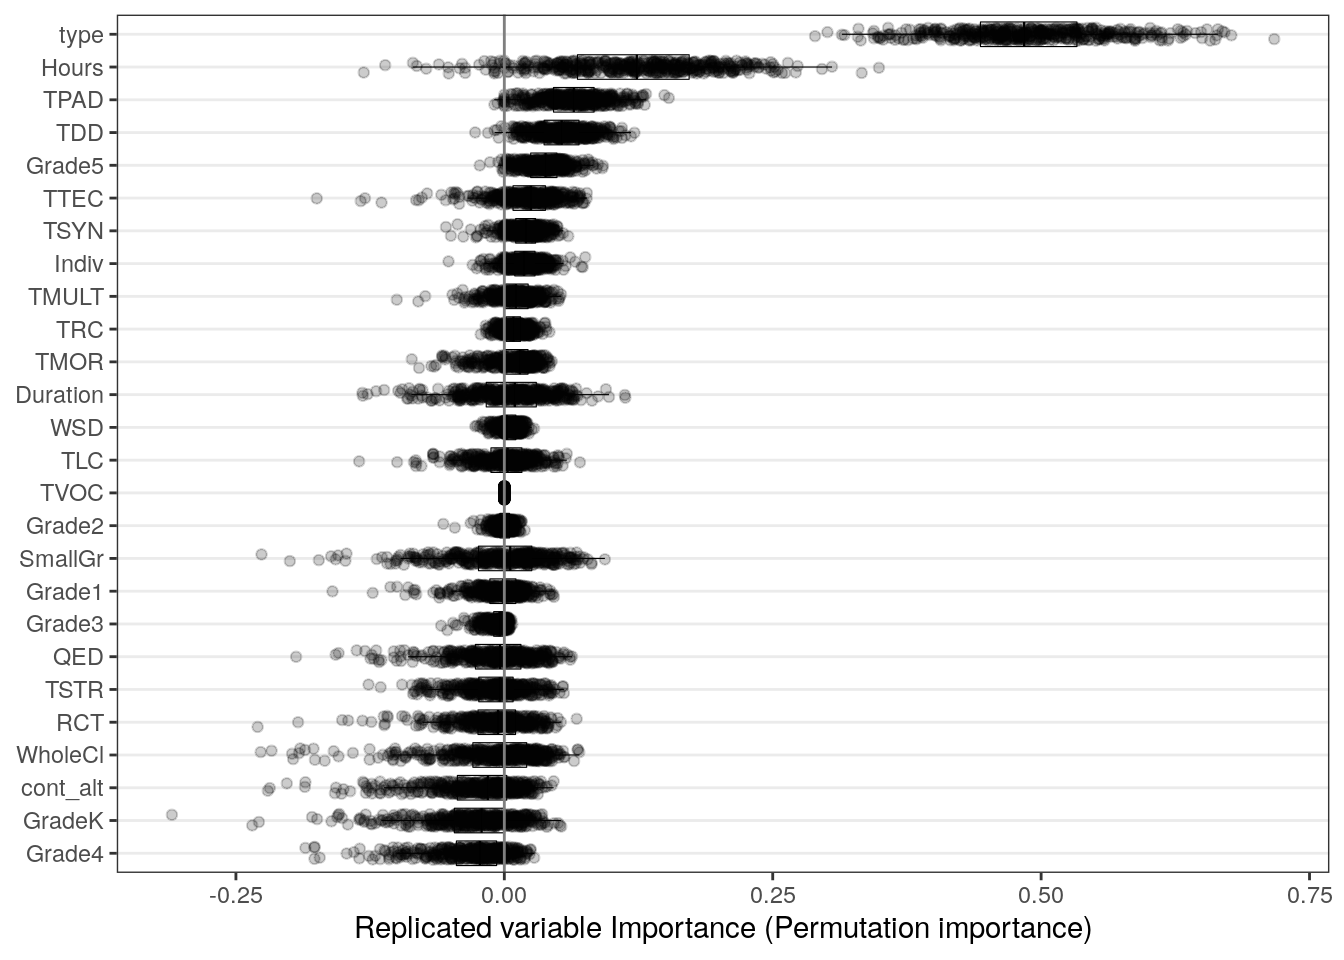
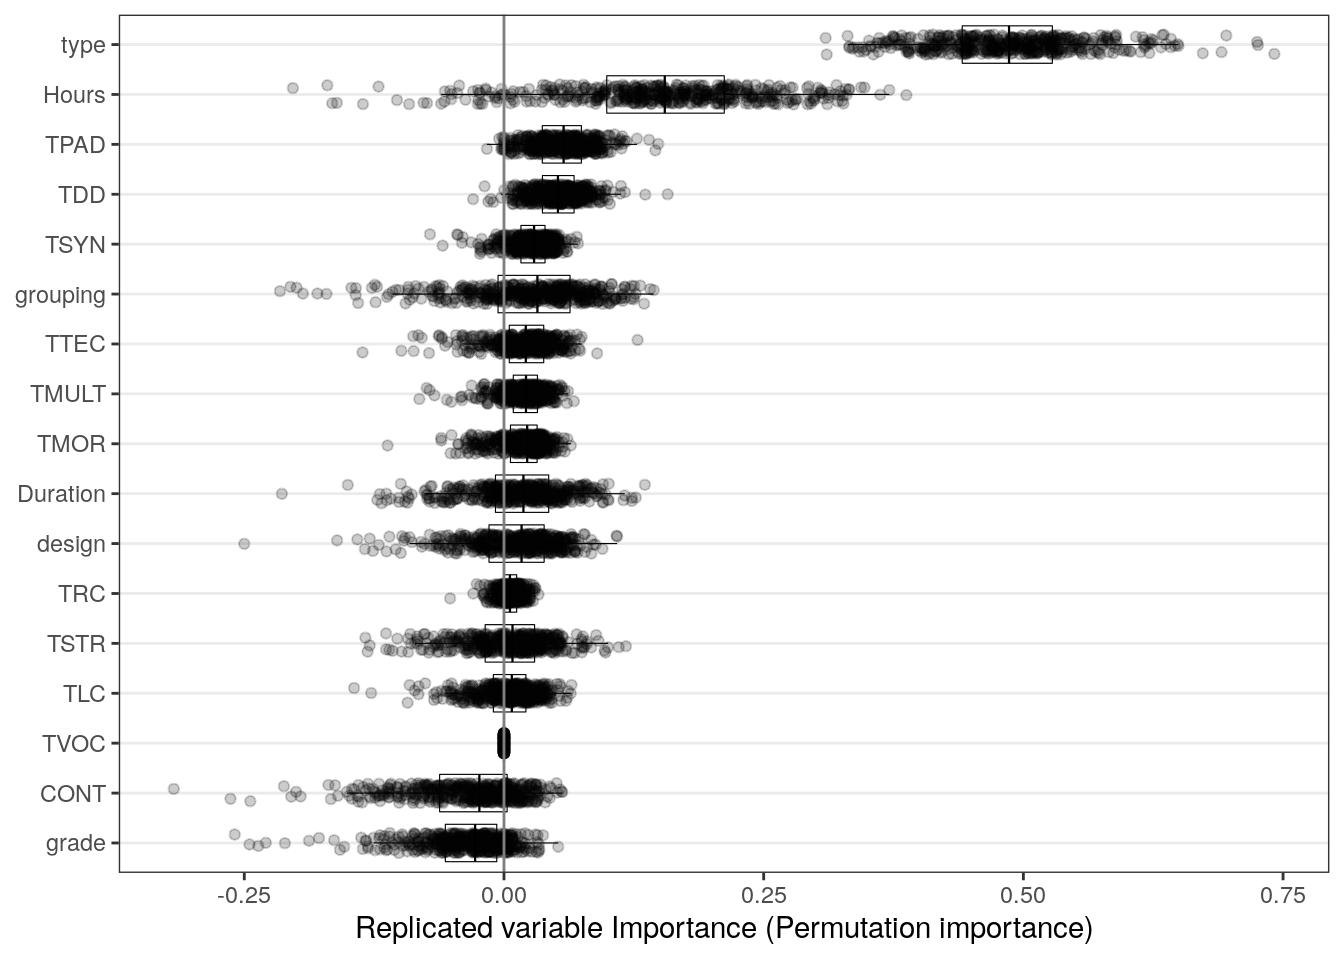
changes

diff --git a/analysis.md b/analysis.md
@@ -17,6 +17,10 @@ Saurabh Khanna
       - [Morphology](#morphology)
       - [Syntax](#syntax)
       - [Academic Learning](#academic-learning)
+  - [MetaForest plots](#metaforest-plots)
+      - [Vocabulary](#vocabulary-1)
+      - [Listening Comprehension](#listening-comprehension-1)
+      - [Reading Comprehension](#reading-comprehension-1)
   - [Moderator effects](#moderator-effects)
       - [Vocabulary (Taken together)](#vocabulary-taken-together)
       - [Vocabulary (VR only)](#vocabulary-vr-only)
@@ -39,14 +43,14 @@ Saurabh Khanna
 library(tidyverse)
 ```
 
-    ## ── Attaching packages ─────────────────────────────────────── tidyverse 1.3.0 ──
+    ## ── Attaching packages ─────────────────────────────────────────────────────────────────────────────────────────────────────── tidyverse 1.3.0 ──
 
     ## ✓ ggplot2 3.3.0     ✓ purrr   0.3.4
     ## ✓ tibble  3.0.0     ✓ dplyr   0.8.5
     ## ✓ tidyr   1.0.2     ✓ stringr 1.4.0
     ## ✓ readr   1.3.1     ✓ forcats 0.5.0
 
-    ## ── Conflicts ────────────────────────────────────────── tidyverse_conflicts() ──
+    ## ── Conflicts ────────────────────────────────────────────────────────────────────────────────────────────────────────── tidyverse_conflicts() ──
     ## x dplyr::filter() masks stats::filter()
     ## x dplyr::lag()    masks stats::lag()
 
@@ -68,10 +72,26 @@ library(metafor)
     ## and introduction to the package please type: help(metafor).
 
 ``` r
-#library(robumeta)
 library(MAd)
-#library(metaforest)
+library(metaforest)
+```
 
+    ## Loading required package: ranger
+
+    ## Loading required package: data.table
+
+    ## 
+    ## Attaching package: 'data.table'
+
+    ## The following objects are masked from 'package:dplyr':
+    ## 
+    ##     between, first, last
+
+    ## The following object is masked from 'package:purrr':
+    ## 
+    ##     transpose
+
+``` r
 # Parameters
 data_file <- here::here("data/L&L Data Set Means SDs.xlsx")
 ```
@@ -1204,6 +1224,61 @@ df_a %>%
 ```
 
 <img src="analysis_files/figure-gfm/unnamed-chunk-16-1.png" width="672" />
+
+## MetaForest plots
+
+### Vocabulary
+
+``` r
+df_v %>%
+  rename(vi = EV) %>%
+  mutate(stdid = stdid %>% as_factor()) %>% 
+  drop_na(Hours) %>% 
+  MetaForest(
+    formula = ES ~ .,
+    data = .,
+    study = "stdid"
+  ) %>%
+  preselect(replications = 500L) %>% 
+  plot()
+```
+
+<img src="analysis_files/figure-gfm/unnamed-chunk-17-1.png" width="672" />
+
+### Listening Comprehension
+
+``` r
+df_l %>%
+  rename(vi = EV) %>%
+  mutate(stdid = stdid %>% as_factor()) %>% 
+  MetaForest(
+    formula = ES ~ .,
+    data = .,
+    study = "stdid"
+  ) %>%
+  preselect(replications = 500L) %>% 
+  plot()
+```
+
+<img src="analysis_files/figure-gfm/unnamed-chunk-18-1.png" width="672" />
+
+### Reading Comprehension
+
+``` r
+df_r %>%
+  rename(vi = EV) %>%
+  mutate(stdid = stdid %>% as_factor()) %>% 
+  drop_na(Hours) %>% 
+  MetaForest(
+    formula = ES ~ .,
+    data = .,
+    study = "stdid"
+  ) %>%
+  preselect(replications = 500L) %>% 
+  plot()
+```
+
+<img src="analysis_files/figure-gfm/unnamed-chunk-19-1.png" width="672" />
 
 ## Moderator effects
 
